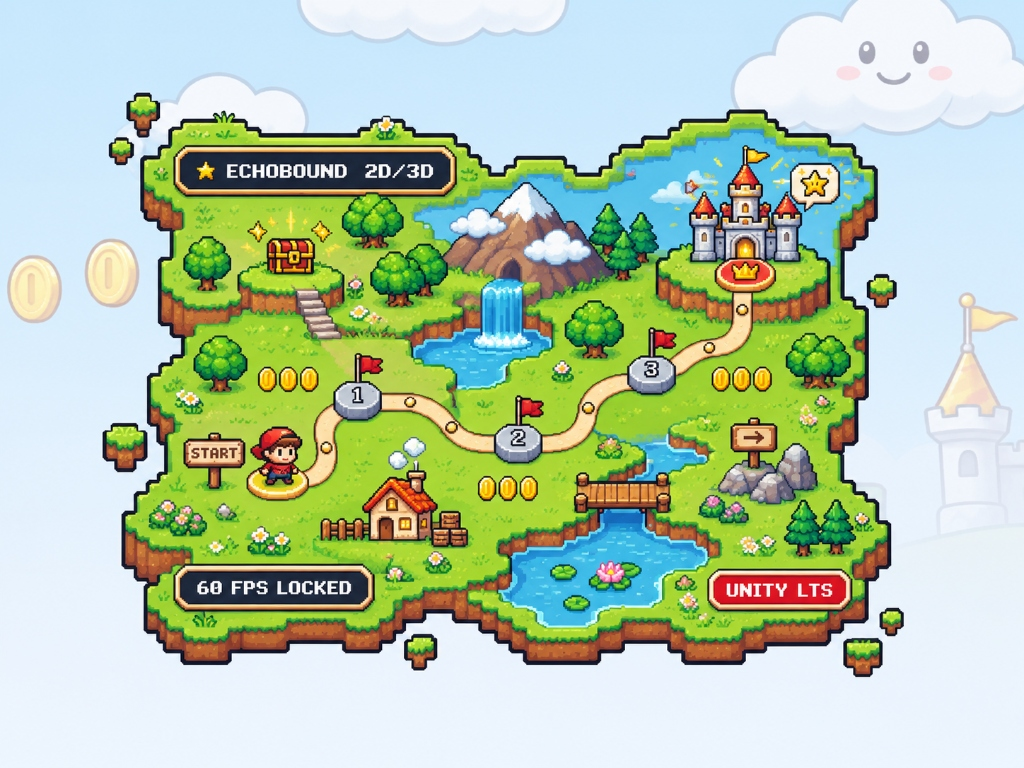
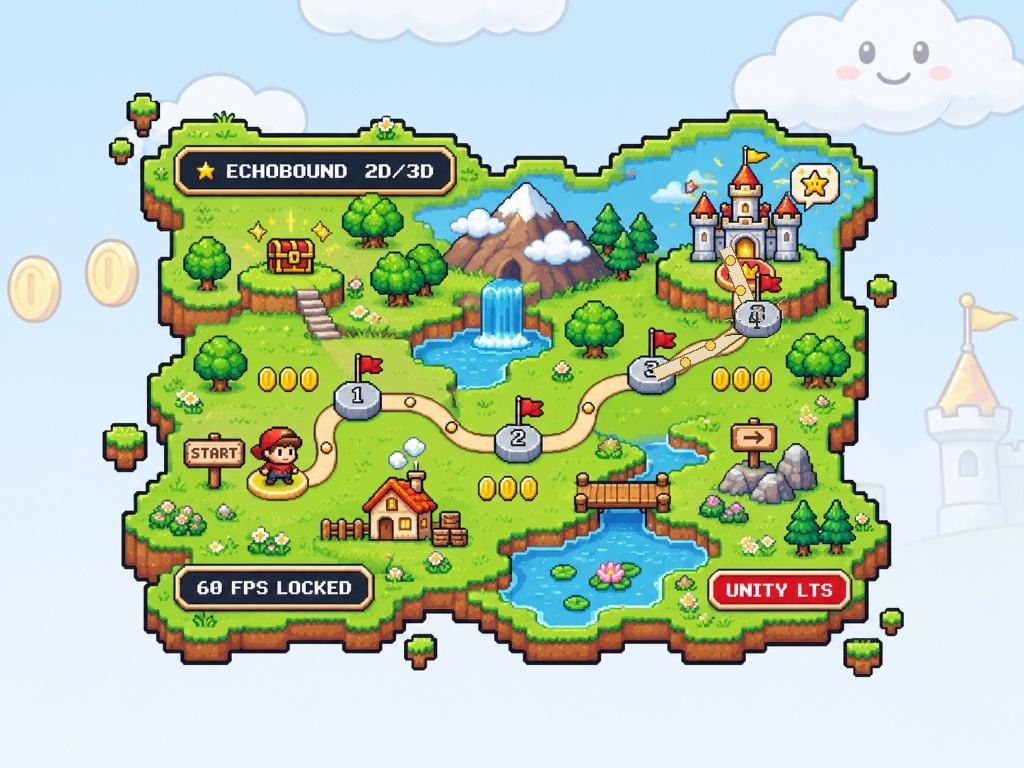
feat: add 4th level tile and dirt path to overworld map for 4 games

Changed region(s): [[0.625, 0.3125, 0.7812, 0.5]]

diff --git a/src/components/ui/InteractiveOverworldMap.tsx b/src/components/ui/InteractiveOverworldMap.tsx
@@ -63,8 +63,8 @@ const STAGES = [
     name: 'STAGE 4: THE HAUNTED HOUSE',
     type: '3D PSYCHOLOGICAL HORROR',
     desc: 'The House Always Wins - Survive the rigged contract, acoustic stealth, and cursed dice',
-    x: 75.8,
-    y: 41.5,
+    x: 73.8,
+    y: 41.4,
     color: '#7C3AED',
     icon: '4',
     badge: 'IN PROGRESS • WIP',
